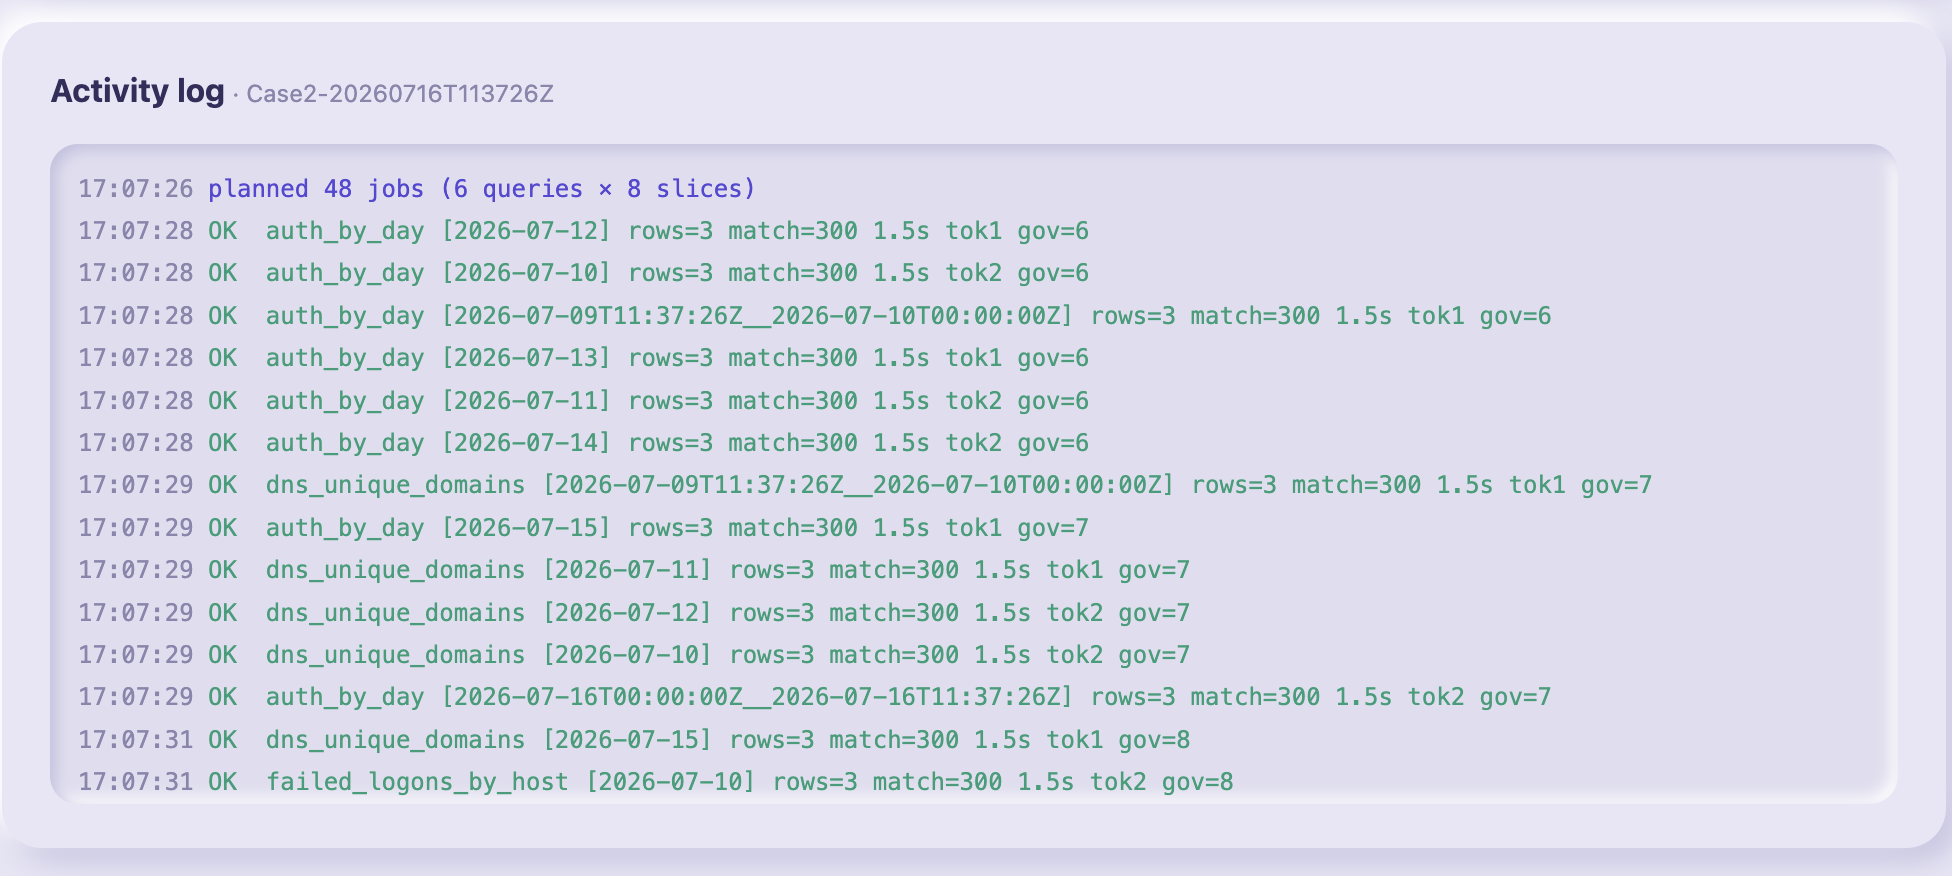
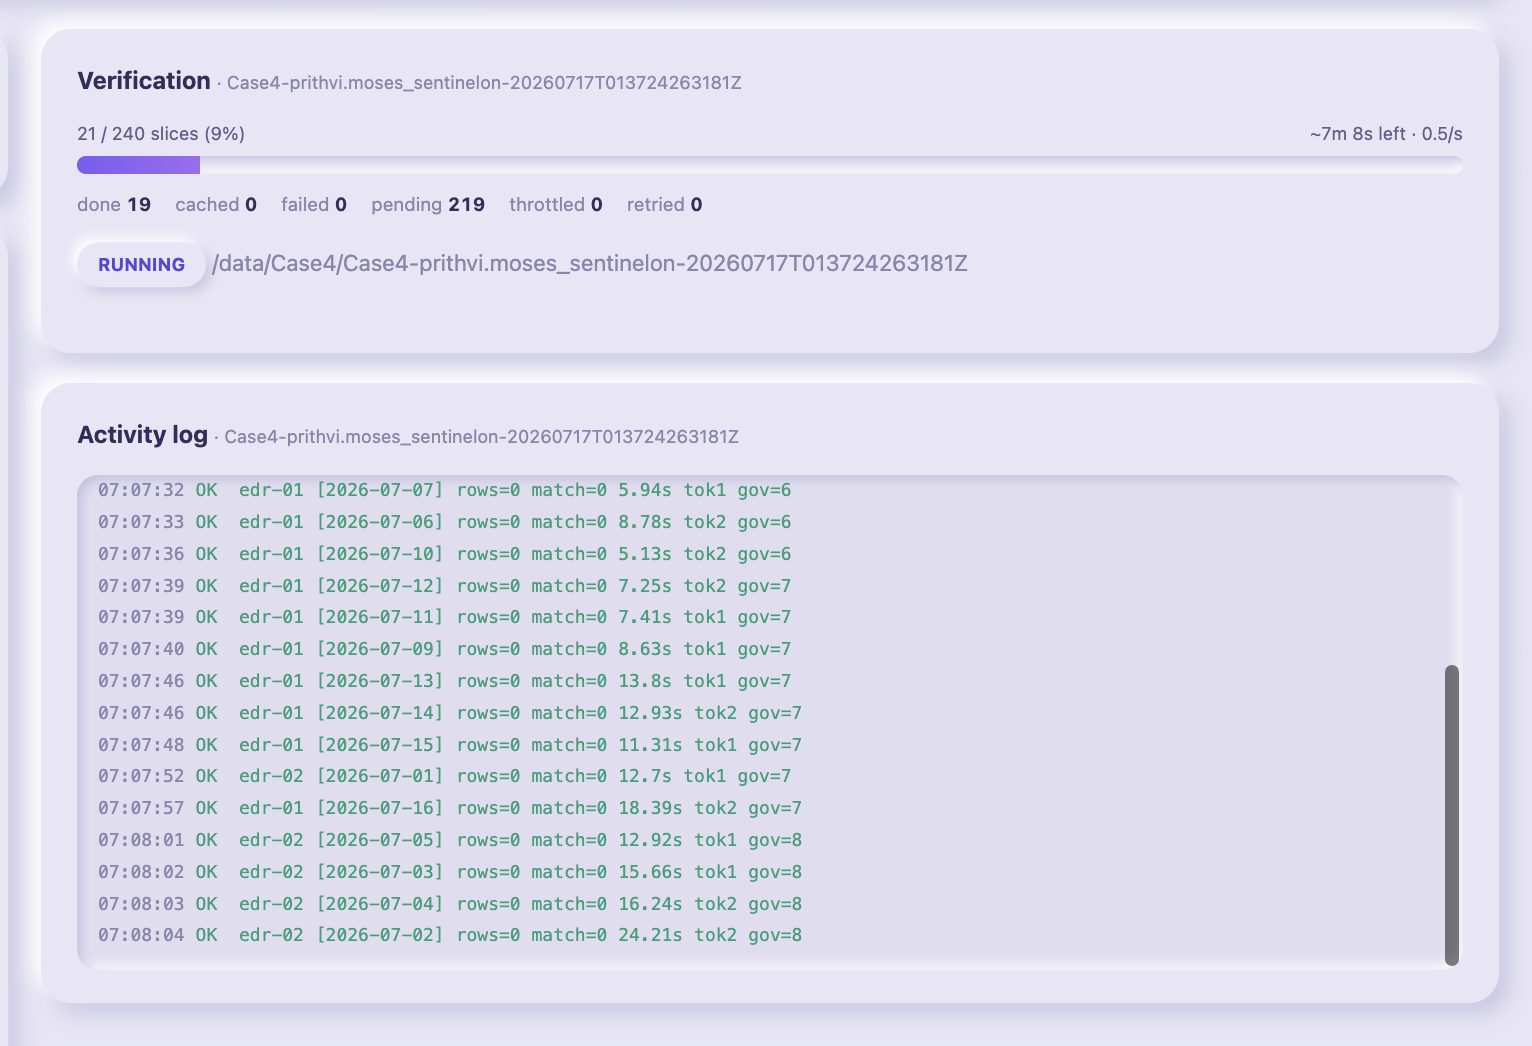
docs: rewrite user guide with new screenshots (variables modal, batch run form, live progress, findings-first verification, results preview, recent runs); add variables/batch/date-range/cost-preview/circuit-breaker/resume sections

diff --git a/docs/user-guide.md b/docs/user-guide.md
@@ -1,9 +1,9 @@
 # User guide
 
 A step-by-step walkthrough of the s1-soc-investigation web UI: launch it, connect to your tenant,
-choose and validate a catalog, run an investigation over a long lookback, watch it complete, and pull
-back verified results. For the concepts behind it (slicing, the cache, verification) see the
-[README](../README.md).
+choose and validate a catalog, set variables, run a single or batch investigation over a long lookback
+or a fixed window, watch it complete, and pull back verified results. For the concepts behind it
+(slicing, the cache, verification, error handling) see the [README](../README.md).
 
 ---
 
@@ -18,10 +18,11 @@ docker run --rm --pull=always -p 127.0.0.1:8901:8801 \
 ```
 
 Open **http://localhost:8901**. The header shows the active build version, so you can confirm which
-image you are on. `--pull=always` ensures you are always on the newest published build.
+image you are on. `--pull=always` ensures you are always on the newest published build. In Docker the
+container makes the mounted `/data` folder writable automatically; if it still cannot write it prints a
+clear fix and exits instead of crashing.
 
-Every field in the UI has a **?** next to it. Hover it for a plain-language explanation of what the
-field does.
+Every field in the UI has a **?** next to it. Hover it for a plain-language explanation.
 
 ---
 
@@ -31,15 +32,16 @@ field does.
 
 Enter your tenant's **Console URL** (the console host for the LRQ v2 API, for example
 `https://your-tenant.sentinelone.net`, not the `xdr.*` V1 host) and one or more **service-user
-tokens**. Put one token per line to round-robin across identities, which roughly doubles the ~3
-requests/sec per-user rate budget.
+tokens**, one per line to round-robin across identities (which roughly doubles the ~3 requests/sec
+per-user rate budget).
 
 - **Rate (rps):** per-token request rate. Keep at or below ~2.5 to stay under the 3 rps per-user cap.
-- **Account IDs:** optional. Set comma-separated account IDs to scope the query (this switches the
-  query to `tenant=false`); leave blank to query tenant-wide.
+- **Account IDs:** optional. Comma-separated account IDs scope the query (switches to `tenant=false`);
+  blank queries tenant-wide.
 
-Click **Connect**. Tokens stay in the server process and are never sent back to the browser. Once
-connected, this panel collapses to a one-line summary with an **Edit** button to reopen it.
+Click **Connect**; tokens stay in the server process and are never sent back to the browser. Use **Test
+connection** to confirm the token authenticates before a long run. Once connected, the panel collapses
+to a one-line summary with an **Edit** button.
 
 ---
 
@@ -47,77 +49,130 @@ connected, this panel collapses to a one-line summary with an **Edit** button to
 
 ![Run investigation panel](images/02-run.png)
 
-Pick a **query catalog** (your standard investigation query set). The buttons below it let you manage
-it without leaving the UI:
+Pick a **query catalog** (your standard investigation query set). The buttons below it manage it
+without leaving the UI:
 
-- **Edit** the selected catalog, or **New** to start one from a template. Each query has an `id`,
-  `title`, `pq` (the PowerQuery), and a `merge` block that tells the engine how to reassemble sliced
-  results. `{{entity}}` is substituted per run.
-- **Import** a catalog file from disk, or **Export** the selected one.
+- **Edit** the selected catalog, or **New** from a template. Each query has an `id`, `title`, `pq`
+  (the PowerQuery), and a `merge` block telling the engine how to reassemble sliced results.
+- **Import** a catalog file, or **Export** the selected one. Saved catalogs persist in your output folder.
 - **Validate vs SDL** launches every query over a short recent window against your tenant and reports
-  each as **valid**, **invalid** (a real syntax error such as an unknown function), or **unknown** (a
-  transient condition). Run this before a 90-day investigation so a bad query is caught in seconds
-  instead of mid-run. Saved catalogs persist in your output folder.
+  each as **valid**, **invalid** (a real syntax error), or **unknown** (transient). Run it before a
+  90-day investigation so a bad query is caught in seconds.
+- **Refresh from repo** pulls the latest catalogs from GitHub without rebuilding the image.
+
+The line under the dropdown shows which variables the catalog needs and which are still unset.
 
 ---
 
-## 4. Configure and start the run
+## 4. Set investigation variables
 
-In the same panel, set:
+![Variables modal](images/05-variables.png)
 
-- **Case ID** and **Entity** (the subject of the investigation: user, host, or IP). The entity fills
-  in `{{entity}}` in every query.
-- **Lookback (days)** and **Slice size (days).** 90+ day lookbacks with 1-day slices are the norm.
-- **Output folder.** Blank uses the default base (the mounted `/data` folder in Docker).
-- **Worker pool** (blank = tokens × 3; the engine auto-tunes it) and **Max attempts** per slice.
-- **Priority**, and the checkboxes: **Adaptive sub-slice** (split a slow slice and retry the pieces),
-  **Use cache** (reuse immutable past-day results from earlier runs), and **Dry run (offline mock)**
-  to try the flow with no tenant.
+Click **Variables** to open the popup. Every environment- or subject-specific value in a query is a
+variable here, grouped into three sections, each field with its own **?**:
 
-Click **Start investigation**.
+- **Investigation subject:** `hostname`, `agent_uuid`, `ip`, `username`, `sf_user_id`, `session`,
+  `app_name`, `domain`, `login_key`, `file_or_title`. A query whose subject variables are not all set
+  is **skipped, not failed**, so you can run the identity phase first, then fill in what you discover
+  and re-run to light up the rest.
+- **Config datatables (optional):** the datatable names for the identity-mapping queries. Set the ones
+  your tenant has; leave the rest blank to skip those queries.
+- **Data source names (optional overrides):** the SDL `serverHost` sources each query reads (zia, okta,
+  slack, salesforce, and so on). Each is pre-filled with a sensible default, so queries run out of the
+  box; override one only if your tenant ingests that source under a different name.
 
----
-
-## 5. Watch it run
-
-![Activity log](images/03-activity-log.png)
-
-The **Activity log** streams every event live: the plan (queries × slices), each slice completing
-(with row count, elapsed time, which token ran it, and the current concurrency limit `gov=`), cache
-hits, retries, adaptive sub-slicing, and throttles. The concurrency limit rises and falls on its own
-as the engine adapts to what the backend tolerates. The full trace is also written to
-`activity.jsonl` in the run folder.
+**Import variables / Export variables** save the whole set to a JSON file or load one, so you can reuse
+a configuration across cases or share it with a teammate. `{{entity}}` itself is set on the run form,
+not here.
 
 ---
 
-## 6. Verify and download
+## 5. Configure and start the run
+
+![Batch run form](images/06-run-batch.png)
+
+Choose **Single investigation** or **Batch (user list)** at the top of the panel.
+
+- **Single:** set **Case ID** and **Entity** (the subject, filling `{{entity}}` in every query).
+- **Batch:** paste or **Upload CSV** a single file whose columns are the same variables as single mode
+  (`email` required, plus `hostname, agent_uuid, ip, username, sf_user_id, session, app_name, domain,
+  login_key, file_or_title`), one row per user. Datatables and source overrides stay global. **CSV
+  template** downloads a ready-made header row.
+
+Then set the window and options:
+
+- **Lookback (days)** for a rolling window, or set **From** and **To** for a fixed window (for example
+  all of April). When a date range is set, Lookback is greyed out and ignored.
+- **Output folder** (blank uses the mounted `/data`), **Worker pool** and **Max attempts**. The pool
+  auto-sizes to tokens x 3 as you add tokens and shows the resulting aggregate rate; type a value to
+  override or clear it to auto-size again.
+- **Priority**, **Adaptive sub-slice** (split a slow slice and retry the pieces), **Use cache** (reuse
+  immutable past-day results), **Stop query on permanent error** (the circuit breaker, see Tips), and
+  **Dry run (offline mock)** to try the flow with no tenant.
+- **Select queries** runs only a subset of the catalog. The cost preview beside it estimates the job
+  count (runnable queries x slices) before you commit.
+
+Click **Start investigation** (or **Start batch investigation**).
+
+---
+
+## 6. Watch it run
+
+![Live progress and activity log](images/03-activity-log.png)
+
+A progress bar tracks completed slices against the plan with a live throughput and estimated time
+remaining. The tiles below it show **done**, **running** (queries executing in parallel right now),
+**pending**, **cached**, **failed**, **throttled**, and **retried** counts as they change. The
+**Activity log** streams every event: the plan, each slice completing (row count, elapsed time, which
+token ran it, and the current concurrency limit `gov=`), cache hits, retries, sub-slicing, throttles,
+and any aborts. The full trace is also written to `activity.jsonl` in the run folder. You can **Cancel**
+a run at any time; it stops after in-flight slices finish and stays resumable.
+
+---
+
+## 7. Verify, preview, and download
 
 ![Verification panel](images/04-verification.png)
 
-When the run finishes, the **Verification** panel gives the verdict: it passes only when every slice
-of every query completed. The per-query table shows status (**pass / failed / incomplete**) with
-done / failed / permanent / pending counts and the merged row count, and flags approximations (for
-example distinct counts summed across slices). The run stats line shows done, cached, failed, retries,
-throttles, and subdivided totals.
+When the run finishes, the **Verification** panel gives the verdict: it passes only when every slice of
+every query completed. Queries are sorted **findings-first**, with a badge for how many have hits and
+the total row count. The per-query table shows status (**pass / failed / incomplete / skipped**) with
+done / failed / skip counts and the merged row count, and shows the exact backend error for any query
+that failed. The stats line includes done, cached, failed, permanent, aborted, retries, throttles, and
+subdivided totals.
 
-Download buttons give you:
+![Results preview](images/07-results-preview.png)
 
-- **Activity log (.jsonl):** the raw execution trace.
-- **Results (.zip):** the merged results, workbook, manifest, and logs.
-- **Everything (.zip):** the above plus the raw per-slice output.
+**Click any query** to preview its merged results inline, with the exact PowerQuery that produced them
+at the top. Download buttons give you the **Activity log (.jsonl)**, **Results (.zip)** (merged results,
+workbook, manifest, logs), and **Everything (.zip)** (the above plus raw per-slice output). If a run is
+incomplete or cancelled, a **Resume** button re-runs its outstanding slices. Each run also writes a
+per-case `.xlsx` workbook (a Summary sheet plus one tab per query showing its PowerQuery). All outputs
+land under `<output>/<case>/<run_id>/`; see the [output layout](../README.md#output-layout).
 
-Each run also writes a per-case `.xlsx` workbook (a Summary sheet plus one tab per query, each tab
-showing the exact PowerQuery used). All outputs land under `<output>/<case>/<run_id>/`; see the
-[output layout](../README.md#output-layout) for what each file contains and where the raw logs are.
+---
+
+## 8. Recent runs
+
+![Recent runs](images/08-recent-runs.png)
+
+The **Recent runs** card lists past investigations (case, entity, catalog, date, and status) and
+survives restarts. Click any row to reopen it: its progress, verification, and downloads load straight
+back up, and an incomplete or cancelled run can be resumed from there.
 
 ---
 
 ## Tips
 
-- **Resume:** if a run is interrupted or some slices fail, run it again with the same run id. Only the
-  outstanding and volatile (current-day) slices re-run; completed past days are served from cache.
-- **Offline demo:** tick **Dry run** to exercise the whole flow against a built-in fake backend with
-  no tenant or credentials.
+- **Broken queries fix themselves out of the way.** If a query is rejected (400 syntax) or keeps
+  failing after retries and subdivision (a 500 from a bad query), the **circuit breaker** aborts that
+  query's remaining slices and flags it as needing a fix, while the other queries keep running. See the
+  reason in the verification table, fix the query (Edit, then Validate vs SDL), and start a **new run
+  for the same case**: cached past days mean only the fixed query re-executes. (Plain Resume keeps the
+  original query text; use a new run to pick up an edited query.) The full model is in the
+  [README error-handling section](../README.md#error-handling-and-recovery).
+- **Offline demo:** tick **Dry run** to exercise the whole flow against a built-in fake backend with no
+  tenant or credentials.
 - **Serving to other hosts:** the UI is loopback-only by default. To expose it, set `S1IE_BIND_ALL=1`
   and a strong `S1IE_AUTH_TOKEN`, then open `http://<host>:8901/?token=<secret>`. See the
   [README security section](../README.md#security-and-hardening).